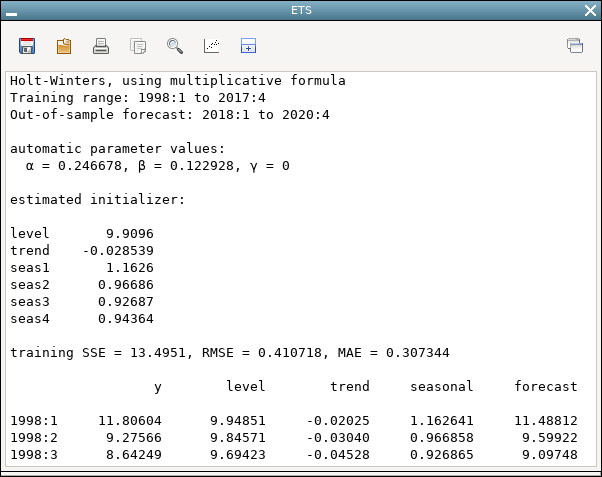
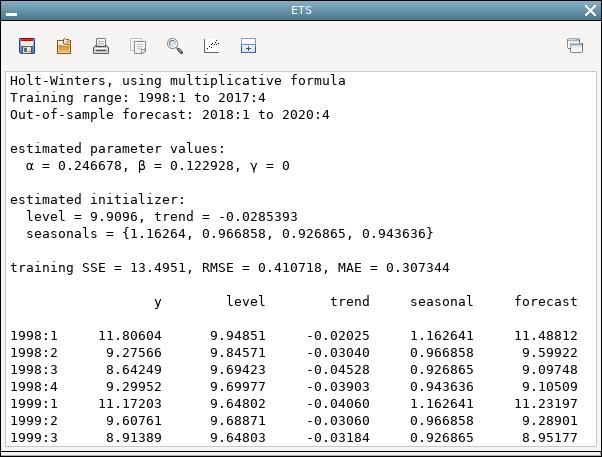
uodates to ETS

diff --git a/ETS/doc/ETS.tex b/ETS/doc/ETS.tex
@@ -34,8 +34,8 @@
 \section{Introduction}
 \label{sec:intro}
 
-This package implements exponential smoothing for time series, in three
-variants:
+This package implements exponential smoothing for time series data, in
+three variants:
 \begin{enumerate}
 \item \textit{Simple} exponential smoothing: a level component only.
 \item \textit{Holt's} method \citep{holt57}, also known as double
@@ -44,11 +44,11 @@ variants:
   triple exponential smoothing: level, trend and seasonal components,
   where the seasonal component can be either additive or multiplicative.
 \end{enumerate}
-It requires time-series data. The seasonal variants require data with a
-seasonal dimension; quarterly or monthly data are the best bet for
-suitability. Daily or hourly data might be suitable, subject to the
-qualifications noted in section~\ref{sec:daily}. Weekly seasonality is
-not supported: it's too complicated.
+The seasonal variants require data with a seasonal dimension; quarterly
+or monthly data are the best bet for suitability. Daily or hourly data
+might be suitable, subject to the qualifications noted in
+section~\ref{sec:daily}. Weekly seasonality is not supported: it's too
+complicated.
 
 The package combines and supersedes the earlier \textsf{Holt} and
 \textsf{Winters} packages, and adds simple exponential smoothing for
@@ -206,10 +206,9 @@ following elements:
   (if applicable), then the seasonal (if applicable); and the final
   column holds forecasts. Columns are named. More details on this matrix
   are provided below.
-\item \dtk{RMSE_train}: the root mean squared error for the 1-step
-  ahead forecasts made using the training data.
-\item \dtk{MAE_train}: the mean absolute error for the 1-step
-  ahead forecasts made using the training data.
+\item \dtk{RMSE_train}, \dtk{MAE_train}: respectively, the root mean
+  squared error and mean absolute error for the 1-step ahead forecasts
+  made using the training data.
 \item \texttt{yname}: the name of the input series.
 \item \texttt{limits}: a 3-vector holding the 1-based indices of the
   first training observation, the last training observation, and the
@@ -353,12 +352,11 @@ Simple exponential smoothing
 Training range: 1960 to 2017
 Out-of-sample forecast: 2018 to 2022
 
-automatic parameter values:
+estimated parameter values:
   α = 0.839783
 
 estimated initializer:
-
-level       39.538
+  level = 39.5381
 
 training SSE = 1995.29, RMSE = 5.86528, MAE = 4.00111
 
@@ -395,13 +393,8 @@ automatic parameter values:
   α = 0.246678, β = 0.122928, γ = 0
 
 estimated initializer:
-
-level       9.9096
-trend    -0.028539
-seas1       1.1626
-seas2      0.96686
-seas3      0.92687
-seas4      0.94364
+  level = 9.9096, trend = -0.0285393
+  seasonals = {1.16264, 0.966858, 0.926865, 0.943636}
 
 training SSE = 13.4951, RMSE = 0.410718, MAE = 0.307344
 
@@ -435,11 +428,12 @@ plus \dtk{y_trend} and \dtk{y_season} where applicable.
 \label{sec:gui}
 
 When you install this package you should get the option of attaching it
-as the menu item \textsf{Variable/Filter} in gretl's main
+as the menu item \textsf{Variable/Filter/ETS} in gretl's main
 window. Clicking this item brings up a dialog box in which you choose
 the model (simple, Holt, or Holt-Winters additive or multiplicative),
 whether the smoothing parameters are to be estimated or pre-specified,
-the number of test observations and the verbosity level.
+the number of test observations and the verbosity level. See
+Figure~\ref{fig:dialog}.
 
 \begin{figure}[htpb]
   \centering
@@ -459,10 +453,10 @@ Clicking the \textsf{Help} button will bring up a brief explanation of
 each control. Only those smoothing parameters relevant to the selected
 model are used when they are pre-specified: $\alpha$ for simple
 smoothing, $\alpha$ and $\beta$ for Holt, all three for Holt-Winters.
-On clicking \textsf{OK} you should get a window showing the results. The
-toolbar at the top of this window includes a \textsf{Graph} button which
-gives access to two types of plot, one showing actual and forecast
-\texttt{y} and one showing the components.
+On clicking \textsf{OK} you should get a window showing the results. See
+Figure~\ref{fig:output}. The toolbar at the top of this window includes
+a \textsf{Graph} button which gives access to two types of plot, one
+showing actual and forecast \texttt{y} and one showing the components.
 
 \section{Technical details}
 \label{sec:details}
@@ -483,9 +477,8 @@ non-seasonal models the basic initialization is as follows.
   first observed difference, $y_{\tau+1} - y_{\tau}$.
 \end{itemize}
 
-For the seasonal models the rule-of-thumb is calculated as per the
-suggestion in \cite{hyndman98}, which is also described in
-\cite{hyndman2010}.
+For the seasonal models we follow the rule-of-thumb suggested by
+\cite{hyndman98}, which is also described in \cite{hyndman2010}.
 \begin{itemize}
 \item The initial level, $\ell_{\tau-1}$, is set to the mean of the
   $m$ values $y_{\tau}, y_{\tau+1},\dots, y_{\tau+m-1}$.
@@ -502,43 +495,41 @@ suggestion in \cite{hyndman98}, which is also described in
 
 \subsection{Optimization}
 
-Two cases arise.
-\begin{itemize}
-\item If \texttt{theta} is not specified, the parameter values and
-  initializer are optimized, with the criterion of minimizing the sum of
-  squared one-step ahead forecast errors for the training range. The
-  starting point for the parameters is
-  $\alpha = \beta = 0.5, \gamma = 0.05$ (as applicable). Optimization is
-  performed using the L-BFGS algorithm (see the chapter on Numerical
-  methods in the \GUG\ for details), with the smoothing parameters
-  constrained to lie in $[0,1]$.
+If neither \texttt{theta} nor \texttt{init} is pre-specified, the
+parameter values and initializer are optimized, with the criterion of
+minimizing the sum of squared one-step ahead forecast errors for the
+training range. The starting point for the parameters is determined via
+a coarse grid search, then optimization is performed using the L-BFGS-B
+algorithm (see the chapter on Numerical methods in the \GUG\ for
+details), with the smoothing parameters constrained to lie in $[0,1]$.
 
-  In the additive models (simple, Holt and additive Holt-Winters) the
-  recursion is linear in the state, so given the smoothing parameters
-  the one-step forecasts are linear in the initial state; the
-  initializer can therefore be concentrated out and solved for by OLS
-  within each evaluation of the criterion, and L-BFGS need only search
-  over the smoothing parameters.\footnote{Thanks go to Jack Lucchetti for
-    suggesting a particularly efficient approach to the optimization,
-    making use of gretl's \texttt{varsimul} function.} In the seasonal
-  case the seasonals are constrained to sum to zero, since the initial
-  level and the seasonal mean are not separately identified. In the
-  multiplicative case the initializer is optimized jointly with the
-  smoothing parameters via L-BFGS, starting from the rule-of-thumb
-  values, with the seasonals normalized to average 1.
-\item If \texttt{theta} is given, the treatment of the initializer
-  depends on the model. For the seasonal models, it is optimized
-  conditional on $\theta$, using the same criterion: in the additive
-  case this is a linear least-squares problem with a closed-form
-  solution, while in the multiplicative case L-BFGS is used. For the
-  non-seasonal models the initializer is just the basic value
-  described above; no optimization is performed.
-\item If \texttt{init} is given (with or without \texttt{theta}) it is
-  used as is, and only the smoothing parameters, if not given, are
-  optimized (by L-BFGS, for all four models). The supplied seasonals
-  are not renormalized, so the \texttt{init} in the returned bundle
-  is exactly what was passed in.
-\end{itemize}
+In the additive models (simple, Holt and additive Holt-Winters) the
+recursion is linear in the state, so given the smoothing parameters the
+one-step forecasts are linear in the initial state. The initializer can
+therefore be concentrated out and solved for by OLS within each
+evaluation of the criterion, and L-BFGS-B need only search over the
+smoothing parameters.\footnote{Thanks go to Jack Lucchetti for
+  suggesting a particularly efficient approach to the optimization,
+  making use of gretl's \texttt{varsimul} function.} In the seasonal
+case the seasonals are constrained to sum to zero, since the initial
+level and the seasonal mean are not separately identified. In the
+multiplicative case the initializer is optimized jointly with the
+smoothing parameters via L-BFGS-B, starting from the rule-of-thumb
+values, with the seasonals normalized to average 1.
+  
+If \texttt{theta} is given but \texttt{init} is not given, the treatment
+of the initializer depends on the model. For the seasonal models, it is
+optimized conditional on $\theta$, using the same criterion: in the
+additive case this is a linear least-squares problem with a closed-form
+solution, while in the multiplicative case L-BFGS-B is used. For the
+non-seasonal models the initializer is just the basic value described
+above; no optimization is performed.
+  
+If \texttt{init} is given (with or without \texttt{theta}) it is used as
+is, and only the smoothing parameters, if not given, are optimized (by
+L-BFGS-B, for all four models). The supplied seasonals are not
+renormalized, so the \texttt{init} in the returned bundle is exactly
+what was passed in.
 
 \subsection{Forecast standard errors}
 
@@ -571,7 +562,7 @@ elements; this is the \texttt{nparms} element of the returned bundle).
 As mentioned in section~\ref{sec:intro} the seasonal models may be
 applicable to daily data, with $m$ = 5, 6 or 7 days per week. In this
 context `seasonality' means intra-week variability. However, the results
-will be meaningful only if the data are `complete', in the sense that
+will be meaningful only if the data are complete, in the sense that
 each week in the sample range includes $m$ valid daily observations. It
 should go without saying that financial market data, even if complete,
 are unlikely to be suitable since seasonal variation would be a clear
@@ -588,7 +579,7 @@ range.
 
 ETS replaces the separate \textsf{Holt} (2.0) and \textsf{Winters}
 (2.3) packages. For users of those packages the principal changes are
-these.
+as follows.
 \begin{itemize}
 \item There is a single primary function, \texttt{ETS()}. The call
   \texttt{Holt(y, specs)} becomes \texttt{ETS(y, \_(trend=1, \dots))}
@@ -598,10 +589,9 @@ these.
   \texttt{ETS(y, \_(seasonal=2, \dots))}. Note that \texttt{Winters}
   defaulted to the multiplicative variant; \texttt{ETS} requires you to
   say which seasonal variant you want.
-\item The plotting function is now \dtk{ETS_plot}.
-  Confidence intervals are available via
-  \dtk{ETS_ci_matrix}, which is new for the seasonal models and
-  covers both the additive and multiplicative cases.
+\item The plotting function is now \dtk{ETS_plot}.  Confidence intervals
+  are available via \dtk{ETS_ci_matrix}, which is new for the seasonal
+  models and covers both the additive and multiplicative cases.
 \item The results matrix in the returned bundle is named \texttt{S}, in
   place of \texttt{H} (Holt) or \texttt{W} (Winters). Its columns are as
   before except that columns which do not apply to the model are
@@ -623,7 +613,7 @@ these.
 \label{sec:log}
 
 \begin{itemize}
-\item \texttt{v1.0}, 2026-11-01: Initial release, combining the
+\item \texttt{v1.0}, 2026-11-07: Initial release, combining the
   \textsf{Holt} 2.0 and \textsf{Winters} 2.3 packages and adding simple
   exponential smoothing.
 \end{itemize}
